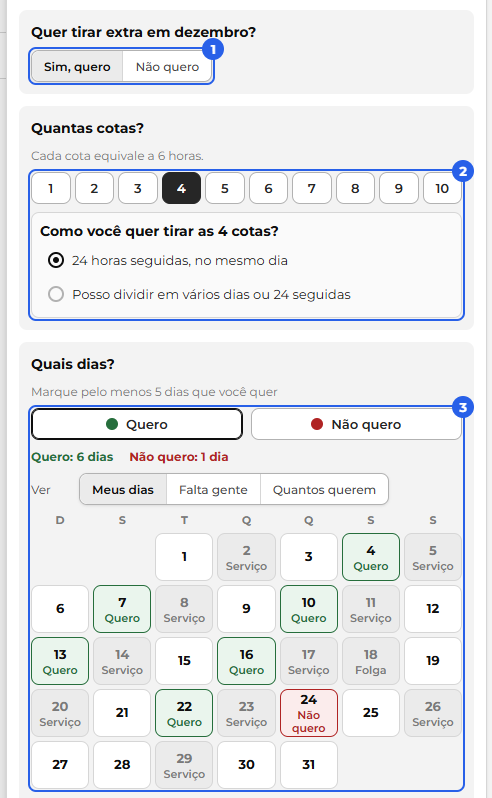
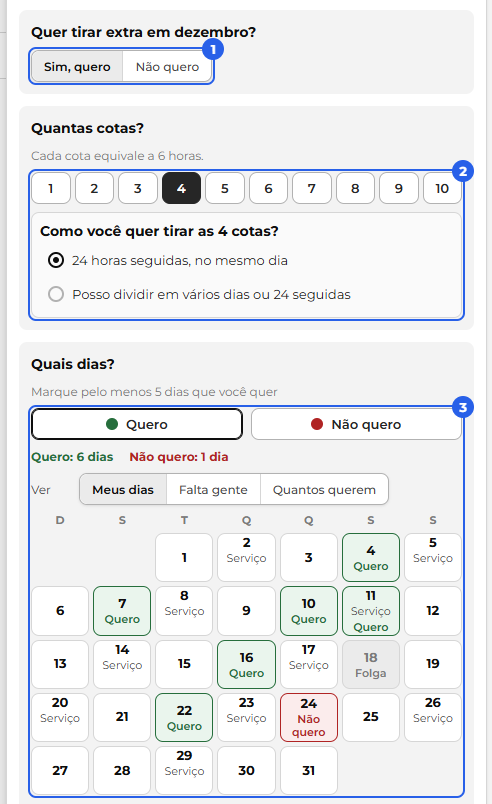
1

diff --git a/programador.html b/programador.html
@@ -2504,7 +2504,7 @@
                 <li><strong>Moldura:</strong> cada aba ocupa o corpo colado (<code>.nova-extra-area</code>): o topo do passo parado (<code>.nova-extra-passo-topo</code>, as notas e o resumo, gap 8px, <code>padding 12px</code> + respiro da página), o conteúdo rolando por dentro (<code>.nova-extra-rolagem</code>) e o rodapé largo parado embaixo (<code>.rodape .rodape--largo</code>, o texto do que mudou em <code>.nova-extra-rodape-texto</code>; nos Ajustes, o Motivo <code>.nova-extra-motivo</code> com o campo de 260px).</li>
                 <li><strong>O número do passo na barra</strong> (<code>.nova-extra-aba-num</code>, antes do nome): círculo de 18px, 11px peso 700; branco com borda <code>--borda-forte</code> (não começou), <code>--sucesso</code> cheio (feito, <code>--feito</code>) e <code>--fundo-contraste</code> cheio (o da vez, <code>--agora</code>). A barra quebra em duas linhas sem espaço (<code>.nova-extra-barra</code>, <code>row-gap 8px</code>). O menu <strong>Ações</strong> é o menu suspenso escuro; o item que ainda não pode fica desligado com o motivo embaixo (<code>.nova-extra-acao-motivo</code>, 11px <code>--texto-fraco</code>).</li>
                 <li><strong>Minha extra:</strong> coluna de leitura de 720px (<code>.nova-extra-leitura</code>, gap 16px) com os blocos cinza <code>.nova-extra-bloco</code> (título 15px peso 600) e, dentro, a caixa branca <code>.nova-extra-caixa</code> (<code>--sombra-bloco</code>). Os 3 passos do mês na mesma largura (<code>.nova-extra-minha-passos</code>, gap 24px): o número em círculo de 24px (o da vez escuro) e o texto 12px <code>--texto-fraco</code>; o botão do pedido embaixo do texto do passo Pedido.</li>
-                <li><strong>Painel do pedido</strong> (painel largo): cada pergunta num bloco cinza <code>.nova-extra-sec</code> (pergunta 14px <code>--texto-forte</code>, ajuda 12px <code>--texto-fraco</code>); as cotas em 10 botões iguais (<code>.nova-extra-cotas</code>, gap 4px; marcada <code>--fundo-contraste</code>); o pincel Quero / Não posso em duas opções (<code>.nova-extra-pincel-op</code>, ponto de 12px verde ou vermelho); o mês em 7 colunas (<code>.nova-extra-cal</code>, gap 4px), cada dia um botão de altura mínima 48px: Quero = <code>--sucesso-fundo</code> com a borda <code>--sucesso</code>, Não posso = <code>--erro-fundo</code> com a borda <code>--erro</code>, ocupado = <code>--fundo-medio</code> com o número apagado.</li>
+                <li><strong>Painel do pedido</strong> (painel largo): cada pergunta num bloco cinza <code>.nova-extra-sec</code> (pergunta 14px <code>--texto-forte</code>, ajuda 12px <code>--texto-fraco</code>); as cotas em 10 botões iguais (<code>.nova-extra-cotas</code>, gap 4px; marcada <code>--fundo-contraste</code>); o pincel Quero / Não posso em duas opções (<code>.nova-extra-pincel-op</code>, ponto de 12px verde ou vermelho); o mês em 7 colunas (<code>.nova-extra-cal</code>, gap 4px), cada dia um botão de altura mínima 48px: Quero = <code>--sucesso-fundo</code> com a borda <code>--sucesso</code>, Não posso = <code>--erro-fundo</code> com a borda <code>--erro</code>, ocupado = <code>--fundo-medio</code> com o número apagado. Dia de serviço ou troca = botão comum, com o motivo só para ler em 11px <code>--texto-suave</code> (<code>.nova-extra-dia-servico</code>) embaixo do número, à vista mesmo com o dia marcado; o lugar do Quero fica guardado (<code>.nova-extra-dia--servico</code>, altura mínima de 14px), para a casa não mudar de altura ao marcar.</li>
                 <li><strong>Pedidos (passo 1):</strong> as tabelas em blocos (<code>.nova-extra-blocos</code>: o fundo cinza e cada linha um bloco branco, 4px entre elas, sem traços; o cabeçalho de 11px em caixa alta parado no alto, camada 1); as colunas depois do militar no centro (<code>.nova-extra-tabela--centro</code>); o aviso embaixo da linha em 12px <code>--alerta</code>. O <strong>Mínimo de dias "Quero"</strong> fica na coluna de 340px, embaixo do Prazo: cada linha é uma <code>.nova-extra-linha-n</code> (o texto à esquerda e o controle à direita, 8px entre eles, altura mínima de 32px); o <strong>Exigir mínimo?</strong> é um <code>.abas--seletor</code>; o número é um <code>.campo-selecao</code> de altura normal com 88px (<code>.nova-extra-minimo-numero</code>), que só oferece de 1 a 5 e nunca é <code>--pequeno</code>. As <strong>Exceções</strong> (<code>.nova-extra-excecoes-grupo</code>) têm a linha de 1px <code>--borda</code> antes, exceção do princípio "Blocos, não traços", e 12px de respiro; o cabeçalho é o botão <code>.nova-extra-excecoes-cab</code>, com o chevron à esquerda (fechado, girado em -90 graus) e, fechado, o resumo em <code>--texto-suave</code> à direita. Na linha nova (<code>.nova-extra-excecao--nova</code>), o campo de quem ocupa a linha inteira e os dias e o Remover ficam embaixo. O campo mudado leva <code>.campo--alterado</code>.</li>
                 <li><strong>Cotas (passo 2):</strong> a faixa de cima (<code>.extra-vol-banda</code>, gap 24px: o total recebido num campo de 64px, o Repartir por e os números do mês, valor 16px peso 700, vermelho quando passa); a lista rola (<code>.extra-vol-rolagem</code>) com o cabeçalho das colunas parado (11px caixa alta, camada 1) e um bloco cinza por unidade (<code>.extra-vol-bloco</code>) com as linhas no bloquinho branco (<code>.extra-vol-bloquinho</code>), em colunas fixas que casam entre os blocos (<code>.extra-vol-linha</code>).</li>
                 <li><strong>Distribuição e Ajustes (passos 3 e 4):</strong> à esquerda, a lista dos voluntários no painel esquerdo (o total no alto em peso 600; as faixas <strong>Faltam</strong> e <strong>Completos</strong> abrem e fecham pela seta, com a contagem à direita; cada voluntário <code>.nova-extra-esq-item</code> de 32px, 12px: posto e nome cortando com reticências, o pelotão 11px e as cotas à direita; o porquê da sugestão embaixo em 11px <code>--texto-fraco</code>; aberto, as datas dele num bloco branco <code>.nova-extra-esq-aberto</code>, a que sai ao salvar em <code>--texto-debil</code>). À direita, o calendário da Escala (<code>geral-calendario-mes</code>, cada dia com no mínimo 200px), com o nome da unidade na cor do dia (<code>.nova-extra-uni-nome</code>: <code>--sucesso-fundo</code> sem erro, <code>--erro-fundo</code> ou <code>--alerta-fundo</code> com falta).</li>

diff --git a/manual.html b/manual.html
@@ -1481,12 +1481,12 @@
               <ol class="manual-passos">
                 <li><strong>Quer tirar extra?</strong> Responda <strong>Sim, quero</strong> ou <strong>Não quero</strong>. Em Não quero, o pedido termina aí.</li>
                 <li><strong>Quantas cotas?</strong> Escolha de 1 a 10. Se escolher 4, o pedido pergunta como você quer tirar: <strong>24 horas seguidas, no mesmo dia</strong>, que já vem marcada, ou <strong>Posso dividir em vários dias ou 24 seguidas</strong>. Na segunda, o sistema prefere as 24 horas inteiras, mas pode dividir em dias diferentes. Com outro número, a extra também pode ser dividida.</li>
-                <li><strong>Quais dias?</strong> Escolha o pincel <strong>Quero</strong> (verde) ou <strong>Não quero</strong> (vermelho) e clique nos dias do mês. Marque pelo menos o número de dias que a frase embaixo de <strong>Quais dias?</strong> pede (ou todos os livres, se forem menos) e no máximo 10 que não quer. Quando o mês não exige um mínimo, a frase não aparece e você marca quantos quiser. Os dias de serviço, troca, folga, férias, licença e dispensa já vêm travados. Em <strong>Ver</strong>, você escolhe o que cada dia mostra: os seus dias, onde falta gente ou quantos querem o dia.</li>
+                <li><strong>Quais dias?</strong> Escolha o pincel <strong>Quero</strong> (verde) ou <strong>Não quero</strong> (vermelho) e clique nos dias do mês. Marque pelo menos o número de dias que a frase embaixo de <strong>Quais dias?</strong> pede (ou todos os livres, se forem menos) e no máximo 10 que não quer. Quando o mês não exige um mínimo, a frase não aparece e você marca quantos quiser. Os dias de folga, férias, licença e dispensa já vêm travados. Os dias de serviço e de troca você pode marcar, porque dá para fazer a troca depois: o dia continua mostrando "Serviço" ou "Troca", e o Quero só vale se você estiver livre quando a extra for distribuída. Em <strong>Ver</strong>, você escolhe o que cada dia mostra: os seus dias, onde falta gente ou quantos querem o dia.</li>
                 <li><strong>Termo.</strong> O pedido não substitui o termo do eProtocolo. Enquanto o termo não é recebido, o pedido mostra "Termo pendente", e sem ele você fica fora das cotas.</li>
               </ol>
               <p>O botão <strong>Enviar pedido</strong> grava e abre o resumo.</p>
               <figure class="manual-figura">
-                <img src="manual/imagens/extra-pedido.png" width="492" height="798" alt="O pedido de extra: a resposta Sim, quero (1), as 4 cotas com a pergunta de como tirar (2) e o mês com o pincel Quero e Não quero e os dias marcados (3)." />
+                <img src="manual/imagens/extra-pedido.png" width="492" height="804" alt="O pedido de extra: a resposta Sim, quero (1), as 4 cotas com a pergunta de como tirar (2) e o mês com o pincel Quero e Não quero, os dias marcados e os dias de serviço, que continuam mostrando Serviço (3)." />
                 <figcaption>
                   <ol class="manual-chamadas">
                     <li>Quer tirar extra?</li>
@@ -1558,7 +1558,7 @@
                 <p><strong>Ações › Preencher pela sugestão</strong> preenche o mês de uma vez. O cálculo pode levar até 1 minuto, e a tela mostra o andamento com o <strong>Cancelar</strong>. Ele nunca quebra as regras: só praça voluntária com termo, no dia em que ela está livre e não disse que não quer, sem passar da cota, sem 1 cota sozinha e sem 4 dias seguidos no quartel. Para quem pediu 24 horas seguidas, ele só põe as 24 horas inteiras. Entre o que cabe, ele cobre primeiro a falta de gente (o vermelho antes do amarelo), deixa cada um no seu pelotão, segue a fila e prefere blocos de 24 horas, a extra colada ao serviço e o dia que o militar quer. As extras que <strong>você</strong> pôs ou mudou ficam travadas: a sugestão refaz só as do sistema. <strong>Desfazer a sugestão</strong> volta ao que estava.</p>
 
                 <h3 id="extra-painel">O painel do dia <span class="manual-selo-admin">Apenas administradores</span></h3>
-                <p>Clique num dia do calendário para abrir o painel do dia à direita. No alto, o <strong>relatório do dia</strong> diz quem foi posto, por quê e o que ainda falta. A <strong>Cobertura do dia</strong> mostra as barras sem extra e com extra. Embaixo vêm os grupos: <strong>Neste dia</strong>, <strong>Querem este dia</strong>, <strong>Sem preferência</strong>, <strong>Não querem este dia</strong> e <strong>Indisponíveis</strong>, com o motivo, como "Serviço" ou "Férias".</p>
+                <p>Clique num dia do calendário para abrir o painel do dia à direita. No alto, o <strong>relatório do dia</strong> diz quem foi posto, por quê e o que ainda falta. A <strong>Cobertura do dia</strong> mostra as barras sem extra e com extra. Embaixo vêm os grupos: <strong>Neste dia</strong>, <strong>Querem este dia</strong>, <strong>Sem preferência</strong>, <strong>Não querem este dia</strong> e <strong>Indisponíveis</strong>, com o motivo, como "Serviço" ou "Férias". Quem está de serviço e marcou Quero naquele dia aparece como "Serviço, quer este dia": ele só pode tirar a extra depois de fazer a troca.</p>
                 <p>Cada militar é uma linha: a bolinha da preferência dele, o nome, as cotas, como "4 de 6", e os quatro horários do dia, que você marca e desmarca. Com a cota cheia, o horário não marca: tire de outro dia antes. Para quem pediu 24 horas seguidas, o primeiro clique no dia vazio marca os quatro de uma vez, se couberem na cota; depois, você pode tirar os que quiser. O que você muda fica na tela até o <strong>Salvar</strong> do rodapé, que grava tudo de uma vez e abre o resumo; o <strong>Cancelar</strong> volta ao que estava gravado.</p>
                 <figure class="manual-figura">
                   <img src="manual/imagens/extra-painel-dia.png" width="495" height="377" alt="O painel do dia da extra: a Cobertura do dia (1), a linha de um militar com as cotas (2) e os quatro horários do dia para marcar (3)." />
